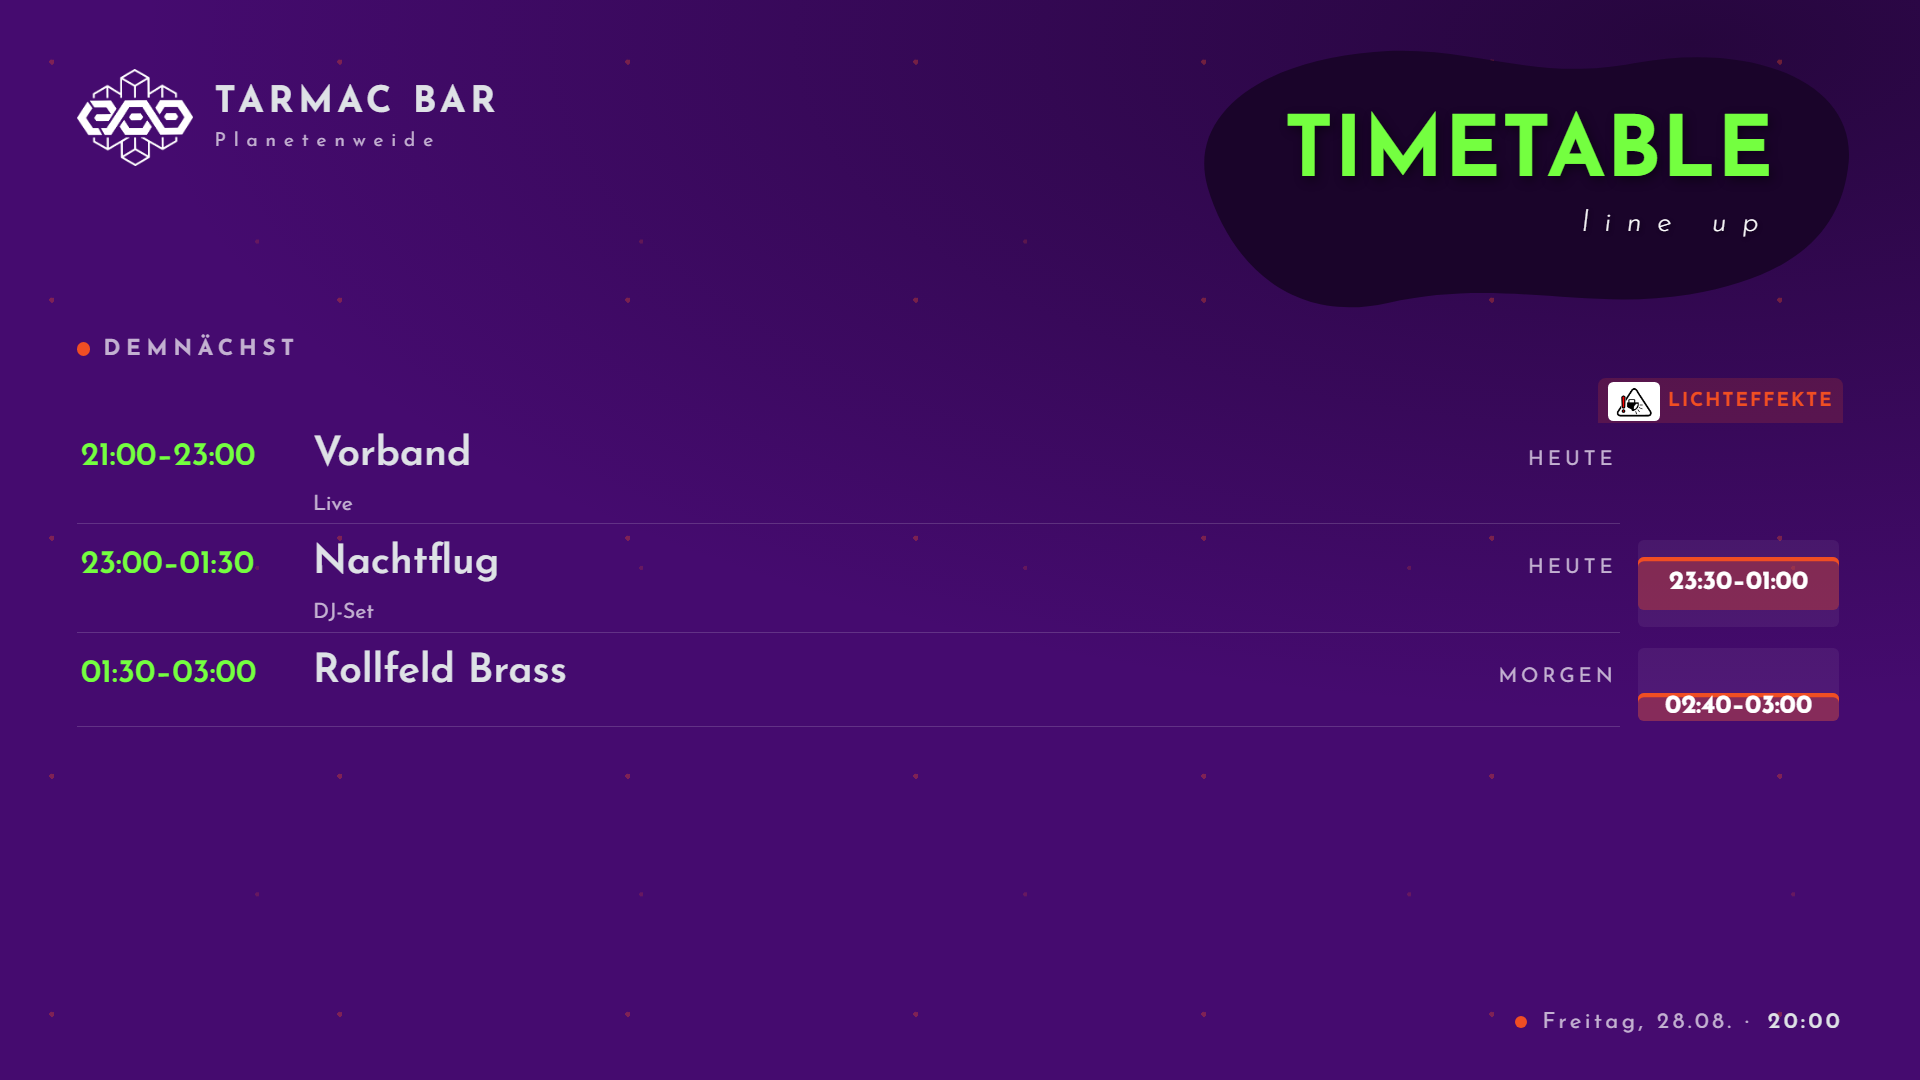
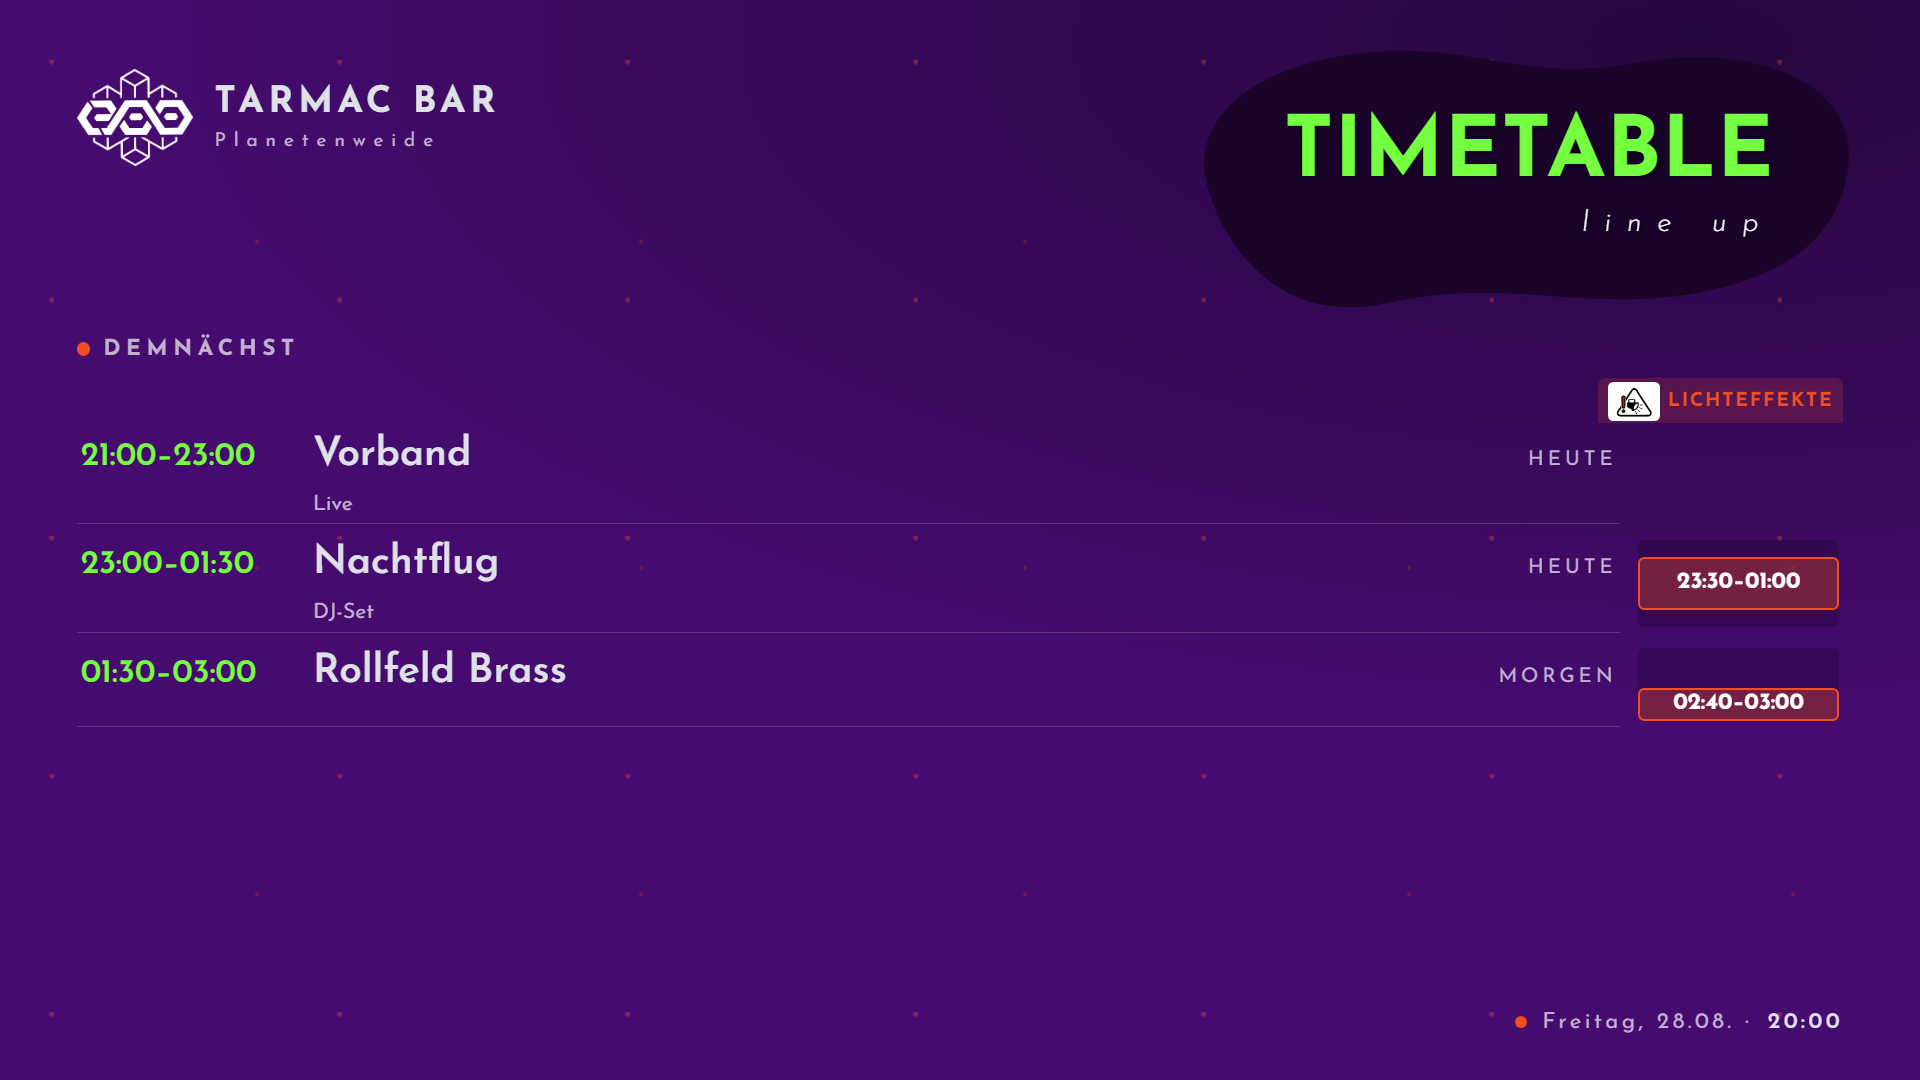
Lichtspalte: geschlossener Kasten, Zeit mittig, Bahn als Vertiefung
- Der Block ist jetzt rundum orange umrandet statt nur oben angestrichen. Offen
  bleibt er nur an der Naht, wo eine Phase in den naechsten Act weiterlaeuft -
  dort waere eine Kante eine Behauptung, dass es zu Ende ist.

- Die Uhrzeit steht mittig darin. Sie sass vorher auf den Pixel genau so hoch
  wie der Kasten und ragte oben und unten je einen Pixel heraus; deshalb wirkte
  sie nicht "drin". Der Mindestkasten ist etwas groesser (knapp die halbe
  Zeile), die Uhrzeit etwas kleiner - macht drei Pixel Luft ringsum.

- Die Bahn dahinter ist eine dunkle Vertiefung statt eines hellen Streifens.
  Als helles Lila war sie ein zweites Lila neben dem Hintergrund und stand mit
  dem Kasten in Konkurrenz; als Vertiefung bleibt sie im Ton der Anzeige, und
  das Orange tritt hervor. Vier Varianten nebeneinander gerendert und
  verglichen: weiss, lila, orange, dunkel.

Test dazu: seitlich ist der Kasten immer umrandet, oben nur wo die Phase
anfaengt, unten nur wo sie aufhoert - und ueber zwei Acts gibt es genau eine
offene Naht.

Changed region(s): [[0.8438, 0.4889, 0.9688, 0.6722]]

diff --git a/src/player.css b/src/player.css
@@ -1069,9 +1069,12 @@ body.spar .klLicht { background: none; }
   top: 0;
   bottom: 0;
   border-radius: 0.3em;
-  background: color-mix(in srgb, #fff 6%, transparent);
+  /* Dunkel, nicht hell: als heller Streifen war die Bahn ein zweites Lila neben
+     dem Hintergrund und stand mit dem Kasten in Konkurrenz. Als Vertiefung
+     bleibt sie im Ton der Anzeige, und das Orange tritt hervor. */
+  background: color-mix(in srgb, #000 18%, transparent);
 }
-body.spar .lichtSpur.mitBalken::before { background: rgba(255, 255, 255, 0.1); }
+body.spar .lichtSpur.mitBalken::before { background: rgba(0, 0, 0, 0.18); }
 
 .lichtBalken {
   position: absolute;
@@ -1081,20 +1084,24 @@ body.spar .lichtSpur.mitBalken::before { background: rgba(255, 255, 255, 0.1); }
      nicht zu sehen. Also eine Flaeche ueber die ganze Spaltenbreite: die Lage
      bleibt dieselbe, sie faellt nur auf. */
   background: color-mix(in srgb, var(--accent2) 34%, transparent);
-  /* Kein min-height: eine Mindesthoehe schob den Block aus seiner Zeile heraus,
-     neben den falschen Act. Die Hoehe kommt jetzt aus der Zeile selbst. */
-  /* Laeuft die Phase ueber mehrere Acts, laeuft die Flaeche durch - rund wird
-     sie nur da, wo die Phase wirklich anfaengt und aufhoert. */
-  border-radius: 0;
+  /* Rundum umrandet - ein Kasten, kein Streifen mit einem Strich obendrauf.
+     Kein min-height: eine Mindesthoehe schob den Block aus seiner Zeile heraus,
+     neben den falschen Act. Die Hoehe kommt aus der Zeile selbst. */
+  border: 0.14em solid var(--accent2);
+  border-radius: 0.32em;
 }
-/* Nur der Anfang bekommt eine kraeftige Kante. Sie sagt: hier geht es los -
-   und steht nicht mehr an jedem Durchlaufstueck. */
-.lichtBalken.beginnt {
-  border-top-left-radius: 0.3em;
-  border-top-right-radius: 0.3em;
-  box-shadow: inset 0 0.22em 0 0 var(--accent2);
+/* Laeuft die Phase ueber mehrere Acts, bleibt der Kasten dort offen: keine
+   Kante, keine Rundung. So ist zu sehen, dass es oben oder unten weitergeht. */
+.lichtBalken:not(.beginnt) {
+  border-top: 0;
+  border-top-left-radius: 0;
+  border-top-right-radius: 0;
 }
-.lichtBalken.endet { border-bottom-left-radius: 0.3em; border-bottom-right-radius: 0.3em; }
+.lichtBalken:not(.endet) {
+  border-bottom: 0;
+  border-bottom-left-radius: 0;
+  border-bottom-right-radius: 0;
+}
 
 .lichtMarke {
   position: absolute;
@@ -1108,7 +1115,7 @@ body.spar .lichtSpur.mitBalken::before { background: rgba(255, 255, 255, 0.1); }
   line-height: 1.15;
 }
 .lichtMarke .lmZeit {
-  font-size: 1.35em;
+  font-size: 1.2em;
   font-weight: 700;
   font-variant-numeric: tabular-nums;
   color: #fff;

diff --git a/test/e2e/lichteffekte.spec.js b/test/e2e/lichteffekte.spec.js
@@ -162,6 +162,40 @@ test.describe('Kennzeichnung im Timetable', () => {
     expect(lage.inDerZeile, 'und der Block bleibt in seiner Zeile').toBe(true);
   });
 
+  test('der Kasten ist rundum umrandet - offen nur da, wo es weitergeht',
+    async ({ page, bar }) => {
+      // Eine Phase ueber zwei Acts: oben schliesst der Kasten ab, unten laeuft
+      // er weiter - dort darf keine Kante stehen, sonst sieht es aus wie zwei
+      // getrennte Phasen.
+      bar.konfig(programm({
+        lichteffekte: [{ id: 'l1', date: '2026-08-28', start: '22:30',
+                         end: '23:45', note: '' }]
+      }));
+      await zeitStellen(page, FREITAG_20_UHR);
+      await page.goto(bar.adresse + '/');
+      await expect(page.locator('.ttRow.hatLicht')).toHaveCount(2);
+
+      const kanten = await page.evaluate(() =>
+        [...document.querySelectorAll('.lichtBalken')].map((b) => {
+          const st = getComputedStyle(b);
+          const da = (w) => parseFloat(st['border' + w + 'Width']) > 0;
+          return { beginnt: b.classList.contains('beginnt'),
+                   endet: b.classList.contains('endet'),
+                   oben: da('Top'), unten: da('Bottom'),
+                   links: da('Left'), rechts: da('Right') };
+        }));
+
+      for (const k of kanten) {
+        expect(k.links, 'seitlich immer umrandet').toBe(true);
+        expect(k.rechts, 'seitlich immer umrandet').toBe(true);
+        expect(k.oben, 'oben zu, wenn die Phase hier anfaengt').toBe(k.beginnt);
+        expect(k.unten, 'unten zu, wenn sie hier aufhoert').toBe(k.endet);
+      }
+      // Genau einmal offen oben und einmal offen unten - die Naht dazwischen
+      expect(kanten.filter(k => !k.oben).length).toBe(1);
+      expect(kanten.filter(k => !k.unten).length).toBe(1);
+    });
+
   test('die Trennlinie hoert vor der Lichtspalte auf', async ({ page, bar }) => {
     // Quer durch die Spalte geschnitten zerteilte sie die Bahnen.
     bar.konfig(programm());

diff --git a/src/player.js b/src/player.js
@@ -988,7 +988,7 @@ function renderTimetable() {
 //
 // Das Mass haengt an der Zeilenhoehe in player.css: dort sind Zeilen mit
 // Lichtspalte 4.4em hoch, die Uhrzeit misst darin gut anderthalb.
-const MIN_BLOCK = 0.38;
+const MIN_BLOCK = 0.46;
 
 function lichtSpurHtml(spuren) {
   if (!spuren.length) return '<div class="lichtSpur"></div>';

diff --git a/README.md b/README.md
@@ -375,10 +375,15 @@ spielt. **Ein Eintrag ohne Endzeit wird nicht angezeigt.**
 Auf dem Timetable bekommt das eine **eigene Spalte am rechten Rand**, mit dem
 Warnzeichen als Reiter darüber — einmal über der Spalte, nicht an jedem Block.
 
-Hinter jedem betroffenen Act liegt eine blasse **Bahn: seine Spielzeit**. Der
-farbige Block darin sitzt genau dort, wo die Lichtphase liegt — fängt das Licht
-mitten im Set an, fängt auch der Block mittendrin an. So ist auf einen Blick zu
-sehen, ob es das ganze Set über blitzt oder nur die letzte halbe Stunde.
+Hinter jedem betroffenen Act liegt eine **Bahn: seine Spielzeit**, als dunkle
+Vertiefung. Der orange umrandete Kasten darin sitzt genau dort, wo die
+Lichtphase liegt — fängt das Licht mitten im Set an, fängt auch der Kasten
+mittendrin an. So ist auf einen Blick zu sehen, ob es das ganze Set über blitzt
+oder nur die letzte halbe Stunde.
+
+Läuft eine Phase über mehrere Acts, bleibt der Kasten dort **offen**: keine
+Kante, keine Rundung an der Naht. Nur wo die Phase wirklich anfängt und
+aufhört, ist er geschlossen.
 
 Die genaue Spanne steht **im Block**. Damit sie dort Platz hat, bekommt der
 Block eine Mindesthöhe: eine sehr kurze Phase wird dadurch etwas höher
@@ -398,8 +403,7 @@ ihren eigenen Abstand.
 ![Lichteffekte im Timetable](docs/screenshots/anzeige-lichteffekte-timetable.png)
 
 Läuft eine Phase über zwei Acts hinweg, steht sie neben beiden — beschriftet
-nur dort, wo sie anfängt, und rund abgeschlossen nur da, wo sie wirklich
-anfängt und aufhört. Und eine Phase, zu der gar kein Act danebensteht (in einer
+nur dort, wo sie anfängt. Und eine Phase, zu der gar kein Act danebensteht (in einer
 Pause etwa), erscheint als Zeile **Außerdem starke Lichteffekte** unter der
 Liste; sie fällt nicht unter den Tisch, nur weil die Spalte sie nicht aufnehmen
 kann.
